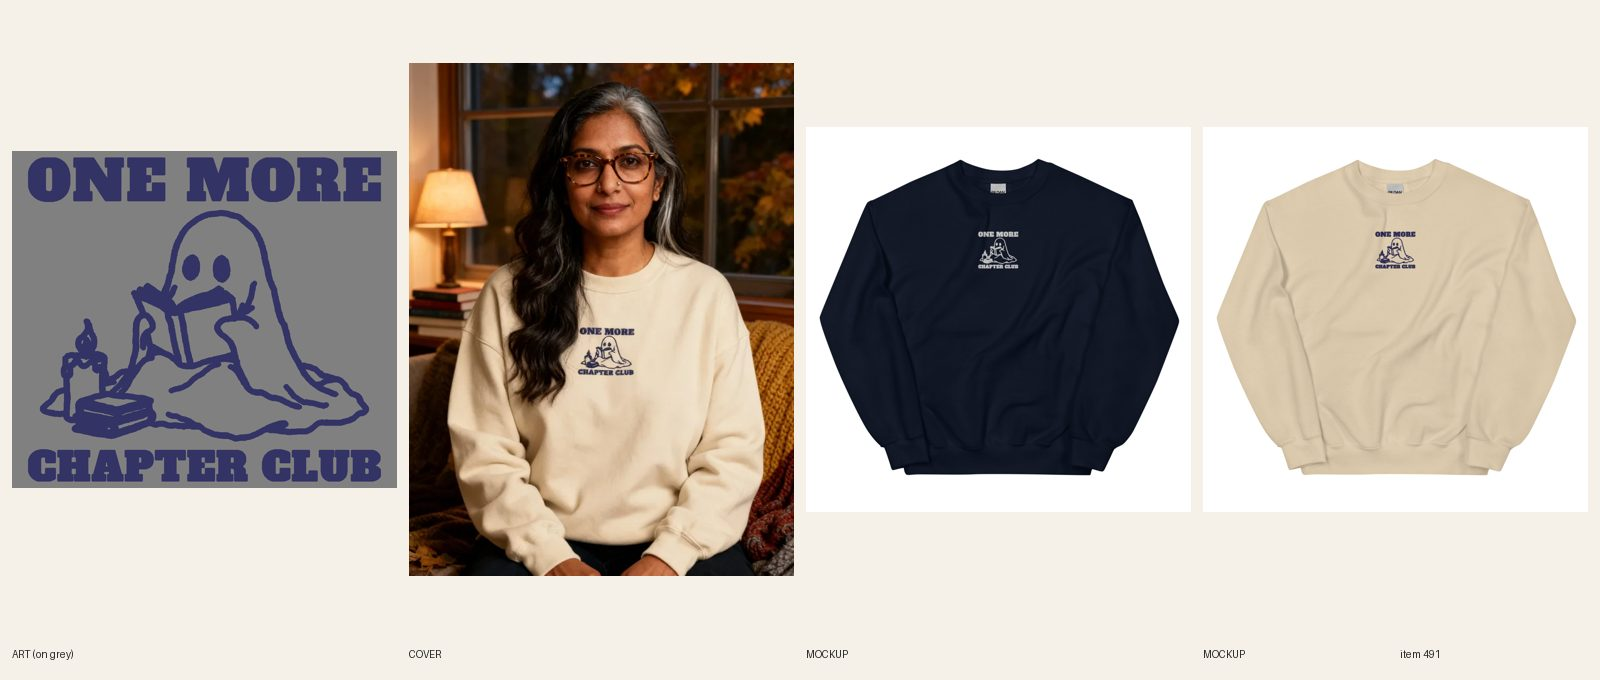
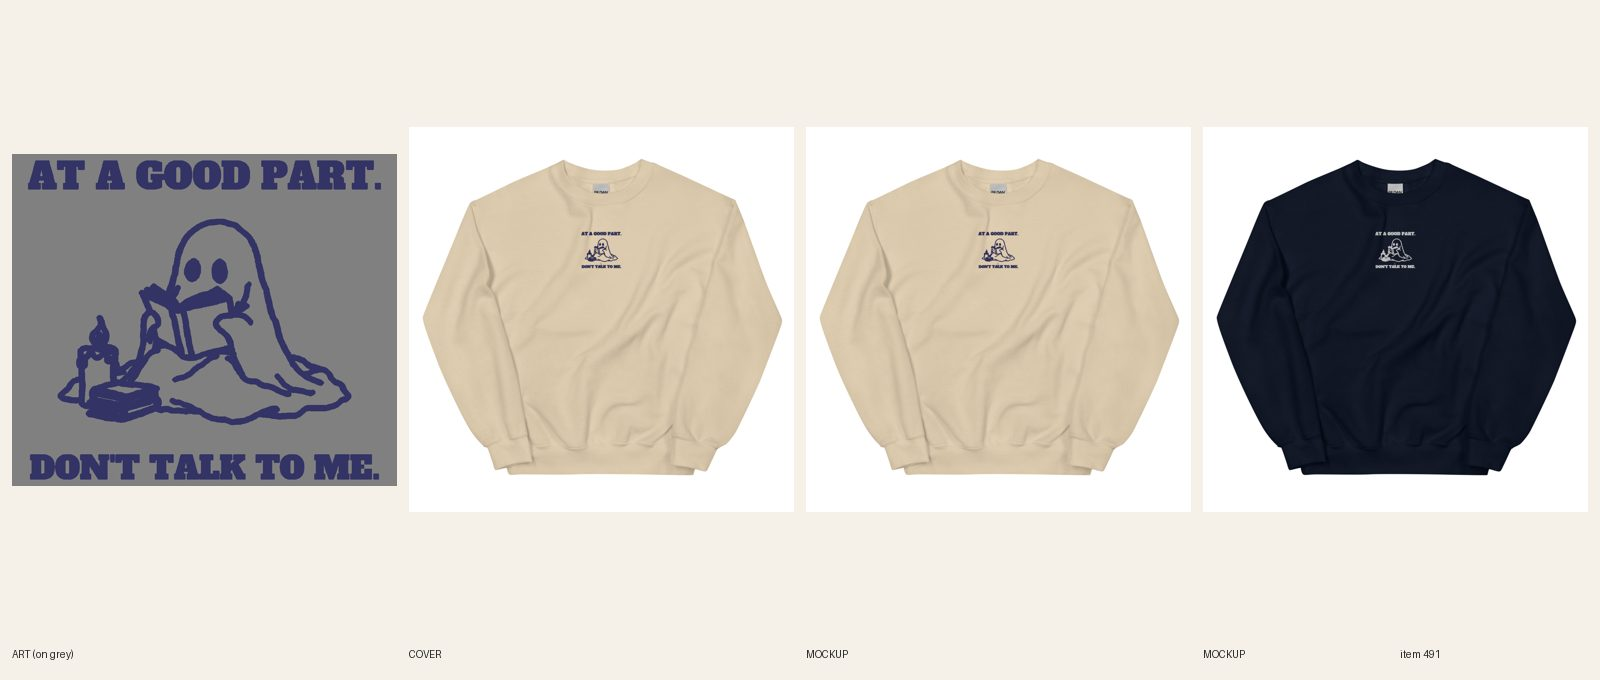
[A] review 491 Ghost embroidered crewneck (line+type redo)
Claude-Session: https://claude.ai/code/session_01LaaEYpKaSBZd9opL7Tpo7i

diff --git a/docs/pipeline/491-embroidered-crew-one-more-chapter-club.md b/docs/pipeline/491-embroidered-crew-one-more-chapter-club.md
@@ -1,4 +1,4 @@
-status: BUILDING [A] 2026-10-20 09:05 UTC
+status: REVIEW
 lane: A
 type: new
 id: 491
@@ -32,3 +32,4 @@ kd: 38
 - 2026-10-18 06:08 UTC builder [A]: REVIEW: pf-emb-sync 482690521 verified 12/12 (embroidery_chest_center file 1088715727, flat stitch, back logo kept; thread per color Sand #333366 / Navy #FFFFFF); everything else as logged above.
 - 2026-10-18 06:14 UTC director: LIVE. Sheet reviewed (R3/R4/R5/R6/R8/R13.3 pass), ACTIVE + published to Online Store, My Store Headless, Google & YouTube; cohesion-audit --handle PASS 0 warn.
 - 2026-10-18 17:22 UTC director: QUALITY RESET grade C (new line + type), REDO. The product stays ACTIVE (same handle, URL, title keyword). 1. Line (R3.12, quality-reset 'Lines'): "ONE MORE / CHAPTER CLUB": Stock bookish phrase, just describes the habit; no twist. Write 5 candidates, keep the one a stranger laughs at in 3 seconds without backstory; kill lines that only describe the picture; if none of the 5 is funny, PARK it. 2. Quality reset type bar (docs/backlog/quality-reset.md, 'The new bar'): headline at least 90% of the art width, heavy, colors pulled from the art; second line at least 45% of the headline's height, never a thin script on a dark or mid garment; use the lettering as a shape (arch, stacked lockup, words breaking into the art), not a plain bar above and a script line below; no font used on more than 1 in 6 of the last 30 designs. 3. Keep the art if it carries the new line, else one new illustration (R4/R5). New print means a new cover per R6.10, copy line one rewritten for the new joke (R8.3), and a fresh review sheet (R7.7). While quality-reset.md says PAUSED, only lane A builds, and only the samples step 2 names.
+- 2026-10-20 09:11 UTC builder [A]: REDO grade C done (new line; embroidery). Line: AT A GOOD PART. / DON'T TALK TO ME. (5 candidates; the reader's do-not-disturb kept; title and handle unchanged). Same ghost-reading line art (old two lines dropped, art re-composed with both lines set in Alfa Slab One at full width by scripts/_a_lockup.py, 1200x1080), emb-prep: 3.67 x 3.32 in at true scale, p10 stroke 1.56 mm (18.4 px), lettering caps about 6.6-8 mm tall, thickened 1 px. Thread: navy #333366 on Sand (file 1090271600), white #FFFFFF on Navy (file 1090271605), flat stitch. pf-emb-sync verified 12/12 (Sand 6, Navy 6; embroidery_chest_center + back logo kept). 2 fronts replaced in place (Printful v2 mockups, fileUpdate), back unchanged. Copy: Story line one, lettering sentence, FAQ 2 updated; SEO title/meta updated; 5 FAQs, Dec 8 kept; no R8.3 opener. Cover: handle added to retired-covers.json (plain product shot). fal $0. audit --handle PASS; astro build ok.

diff --git a/docs/intake-log.md b/docs/intake-log.md
@@ -1,5 +1,6 @@
 RUNNING lane B since 2026-10-20 09:02 UTC
 2026-10-20 09:05 UTC — [B] Builder run: #545 Women's Gym Mid-Set. Not Interested. tee to REVIEW (cover retired to flat shot, line one already fixed, 36/36 synced, new review sheet). fal $0.
+2026-10-20 09:11 UTC — [A] Builder run: redid #491 Women's Embroidered Ghost crewneck (line+type: AT A GOOD PART. / DON'T TALK TO ME., same reading ghost, Alfa Slab full width, navy thread file 1090271600 / white thread file 1090271605, 12/12 relinked, 2 fronts replaced in place, copy updated, plain product shot). REVIEW. fal $0.
 2026-10-20 08:53 UTC — [E] Builder run (second session): 16 REDOs to REVIEW (366 388 438 451 466 472 486 536 537 576 608 610 611 613 628 631 652 = 17 items counting 576); no more REDO left in lane E; new READY items need the R5.2 favorites proof that this environment cannot fetch (707 claim released). Note: a concurrent lane E session collided with me on #576 (resolved, #576 is consistent on Printful and Shopify). fal about $0.40 this run.
 2026-10-20 08:47 UTC — [D] Director run: inbox nothing new. 6 LIVE (cap): #443 #552 #554 #561 #635 #382, audit PASS (#554 #561 SEO titles added). Reviewed 16: 12 approved and held (#387 #389 retitled), 4 REDO (#397 stock line, #507 geyser still a rectangle, #509 shield scene, #610 stock Etsy line). Builder card 7j (no more SORRY/BOOKED lines). READY: A 13, B 12, C 12, E 12. No Telegram (digest not due, nothing for Sam). Lock released.
 2026-10-20 08:52 UTC — [E] Builder run: redid #537 Women's Gym pump cover (line + type: DELICATE FLOWER. / 315 LB DEADLIFT., same bow-deadlifter art, Alfa Slab One, washed black ground, 10/10 synced). REVIEW. fal $0.
